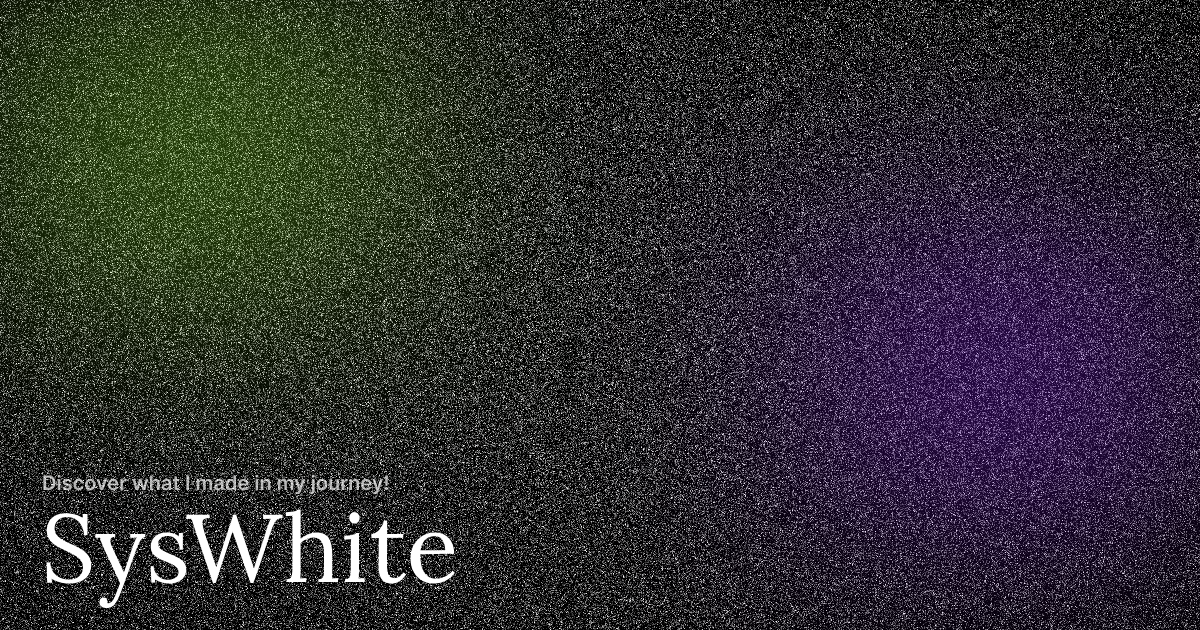
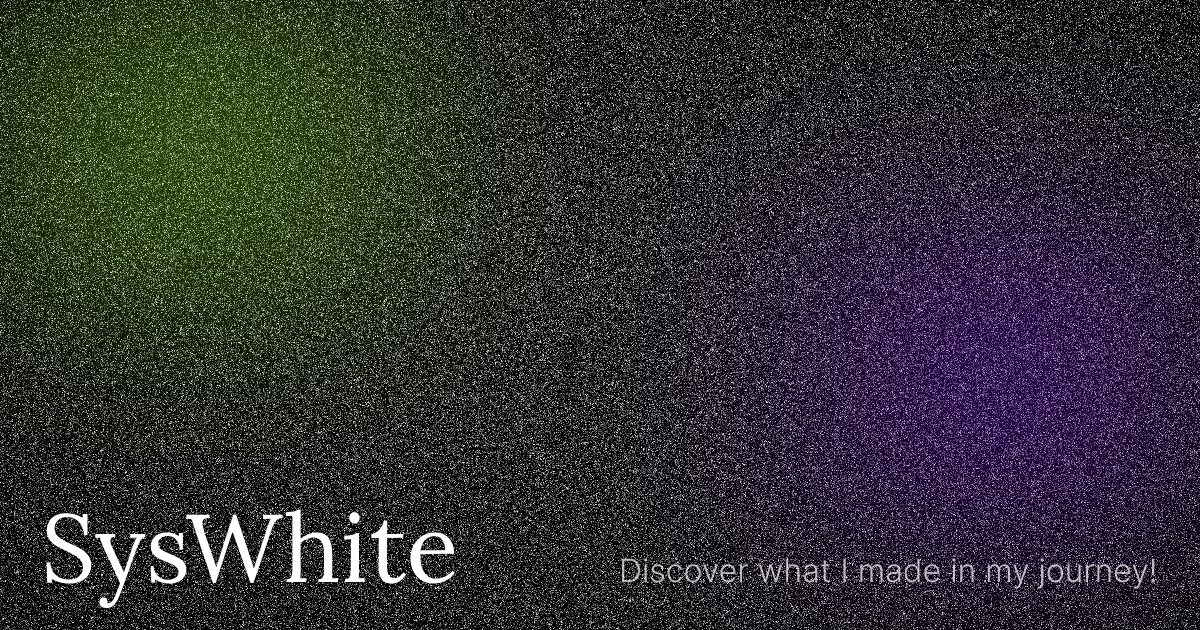
Updated minor stuff, added auth flow work page

Changed region(s): [[0.5242, 0.8746, 0.9558, 0.9349], [0.0308, 0.754, 0.3392, 0.7841]]

diff --git a/app/work/[id]/page.tsx b/app/work/[id]/page.tsx
@@ -14,6 +14,7 @@ import remarkParse from "remark-parse";
 import { unified } from "unified";
 import "./readme.css";
 import { BiConfused } from "react-icons/bi";
+import { TbExternalLink } from "react-icons/tb";
 type ProjectData = {
   name: string;
   description: string;
@@ -161,6 +162,29 @@ export default function Page(context: any) {
                     }}
                     className={`p-6 pt-0`}
                   ></div>
+                  <div className="relative overflow-hidden flex justify-between flex-col sm:flex-row items-start w-full mx-auto mt-10 p-4 border-t bg-neutral-900 border-neutral-700">
+                    <p className="text-3xl font-semibold sm:w-[65%]">
+                      Liked what you saw? Get in contact!
+                    </p>
+                    <div className="sm:w-auto mt-6 sm:mt-0 flex-col sm:flex-row w-full flex items-center gap-2.5">
+                      <Link
+                        href={
+                          "https://docs.google.com/document/d/1TFzYKCOe1yHOBwgH3D-bM3E2tIS8q77oXxmzzA0EVJE/edit?usp=sharing"
+                        }
+                        className={`hover:opacity-80 w-full justify-center flex items-center gap-2 px-3 py-1.5 rounded-[6px] outline outline-1 -outline-offset-1 outline-zinc-700 bg-zinc-800
+              `}
+                      >
+                        CV
+                        <TbExternalLink />
+                      </Link>
+                      <Link
+                        href={"/contacts"}
+                        className={`bg-white w-full whitespace-nowrap text-center hover:underline text-black hover:opacity-80 flex items-center justify-center gap-2 px-3 py-1.5 rounded-[6px]`}
+                      >
+                        Contact me
+                      </Link>
+                    </div>
+                  </div>
                 </div>
                 <div className="h-full my-6 order-first lg:order-last col-span-1 lg:my-0 flex flex-col">
                   <div className="lg:sticky top-6 flex flex-col gap-12">
@@ -183,8 +207,7 @@ export default function Page(context: any) {
                       </div>
                     </div>
                     <div>
-                      
-                      <span className="font-semibold">Other people</span>
+                      <span className="font-semibold">People</span>
                       <div className="text-sm pt-3 flex flex-col gap-2.5">
                         {projectData?.people.map((person, index) => (
                           <Link

diff --git a/app/page.tsx b/app/page.tsx
@@ -39,12 +39,12 @@ const lora = Lora({ subsets: ["latin"] });
 export default async function Home() {
   return (
     <main className="">
-      <div className="relative h-[38dvh]">
-        <div className="overflow-hidden flex items-center flex-col w-full h-full noisy outline outline-1 outline-neutral-800">
-          <div className="-z-10 relative w-full blur-[300px] mb-24 h-full">
+      <div className="relative h-[35dvh]">
+        <div className="overflow-hidden relative justify-end flex items-center flex-col w-full h-full noisy outline outline-1 outline-neutral-800">
+          <div className="-z-10 absolute top-0 bottom-0 left-0 right-0 w-full blur-[300px] mb-24 h-full">
             <div className="absolute bottom-0 top-2 h-[300px] w-[300px] bg-blue-500" />
           </div>
-          <div className="px-6 md:px-10 lg:px-12 flex justify-between items-start pb-5 md:pb-7 lg:pb-10 w-full flex-col lg:flex-row lg:items-end">
+          <div className="px-4 md:px-10 flex-shrink-0 lg:px-12 flex justify-between items-start pb-5 md:pb-7 lg:pb-10 w-full flex-col lg:flex-row lg:items-end">
             <div>
               <span
                 className={`${lora.className} font-semibold text-5xl sm:text-6xl md:text-7xl xl:text-8xl text-left`}
@@ -290,7 +290,7 @@ export default async function Home() {
             </div>
           </div>
         </div>
-        <div className="relative overflow-hidden flex justify-between flex-col max-w-7xl h-[250px] mx-auto mt-10 p-4 border-2 rounded-xl bg-neutral-900">
+        <div className="relative overflow-hidden flex justify-between flex-col max-w-7xl lg:h-[250px] h-auto mx-auto mt-12 p-4 border-2 rounded-xl bg-neutral-900">
           <p className="text-3xl font-semibold sm:w-[65%]">
             See what I created with all those technologies!
           </p>
@@ -304,10 +304,10 @@ export default async function Home() {
               height={2000}
             />
           </div>
-          <div className="flex flex-row items-center gap-1.5">
+          <div className="flex flex-row mt-6 items-center gap-1.5">
             <Link
               href={"/work"}
-              className={`bg-white w-full sm:w-auto mt-2.5 text-center hover:underline text-black hover:opacity-80 flex items-center justify-center gap-2 px-3 py-1.5 rounded-[6px]`}
+              className={`bg-white w-full sm:w-auto text-center hover:underline text-black hover:opacity-80 flex items-center justify-center gap-2 px-3 py-1.5 rounded-[6px]`}
             >
               My work
             </Link>

diff --git a/app/work/page.tsx b/app/work/page.tsx
@@ -85,16 +85,16 @@ export default function Page() {
             className="lg:col-span-2 bg-sky-950 text-sky-500 border border-sky-500"
           />
         </div>
-        <div className="relative overflow-hidden flex justify-between flex-col sm:flex-row items-start w-full mx-auto mt-10 p-4 border-2 rounded-xl bg-neutral-900">
+        <div className="relative overflow-hidden flex justify-between flex-col sm:flex-row items-start w-full mx-auto mt-16 p-4 border-2 rounded-xl bg-neutral-900">
           <p className="text-3xl font-semibold sm:w-[65%]">
             Liked what you saw? Get in contact!
           </p>
-          <div className="sm:w-auto mt-10 sm:mt-0 flex-col sm:flex-row w-full flex items-center gap-2.5">
+          <div className="sm:w-auto mt-6 sm:mt-0 flex-col sm:flex-row w-full flex items-center gap-2.5">
             <Link
               href={
                 "https://docs.google.com/document/d/1TFzYKCOe1yHOBwgH3D-bM3E2tIS8q77oXxmzzA0EVJE/edit?usp=sharing"
               }
-              className={`hover:opacity-80 w-full justify-center flex items-center gap-2 px-3 py-1.5 rounded-[6px] outline outline-1 -outline-offset-1 outline-neutral-700 bg-neutral-800
+              className={`hover:opacity-80 w-full justify-center flex items-center gap-2 px-3 py-1.5 rounded-[6px] outline outline-1 -outline-offset-1 outline-zinc-700 bg-zinc-800
               `}
             >
               CV

diff --git a/public/works/5/README.md b/public/works/5/README.md
@@ -1,0 +1,22 @@
+# JWT + DB Session Auth Backend
+
+This is an effort to fix JWTs biggest problem, which is invalidating tokens.
+
+## UI Preview
+
+![Frontend Preview](https://i.imgur.com/FKB6g9A.png)
+
+## Flowcharts
+
+![Log In ceremony](https://i.imgur.com/DmlI1Fn.png)
+![Middleware](https://i.imgur.com/GGYkq2j.png)
+
+## Tech Stack
+
+**Backend**: ExpressJS, bcrypt, prisma, SQLite
+
+**Frontend**: NextJS
+
+#### Why prisma for the db?
+
+The database is managed with the prisma ORM, I made this choice since I plan to use this with real world projects and using an ORM it's the safest way to interact with a database on the server, plus if I want to use another db technology than sqlite I can easily switch to it (You can read more <u>[here](https://blog.bitsrc.io/what-is-an-orm-and-why-you-should-use-it-b2b6f75f5e2a)</u>).
